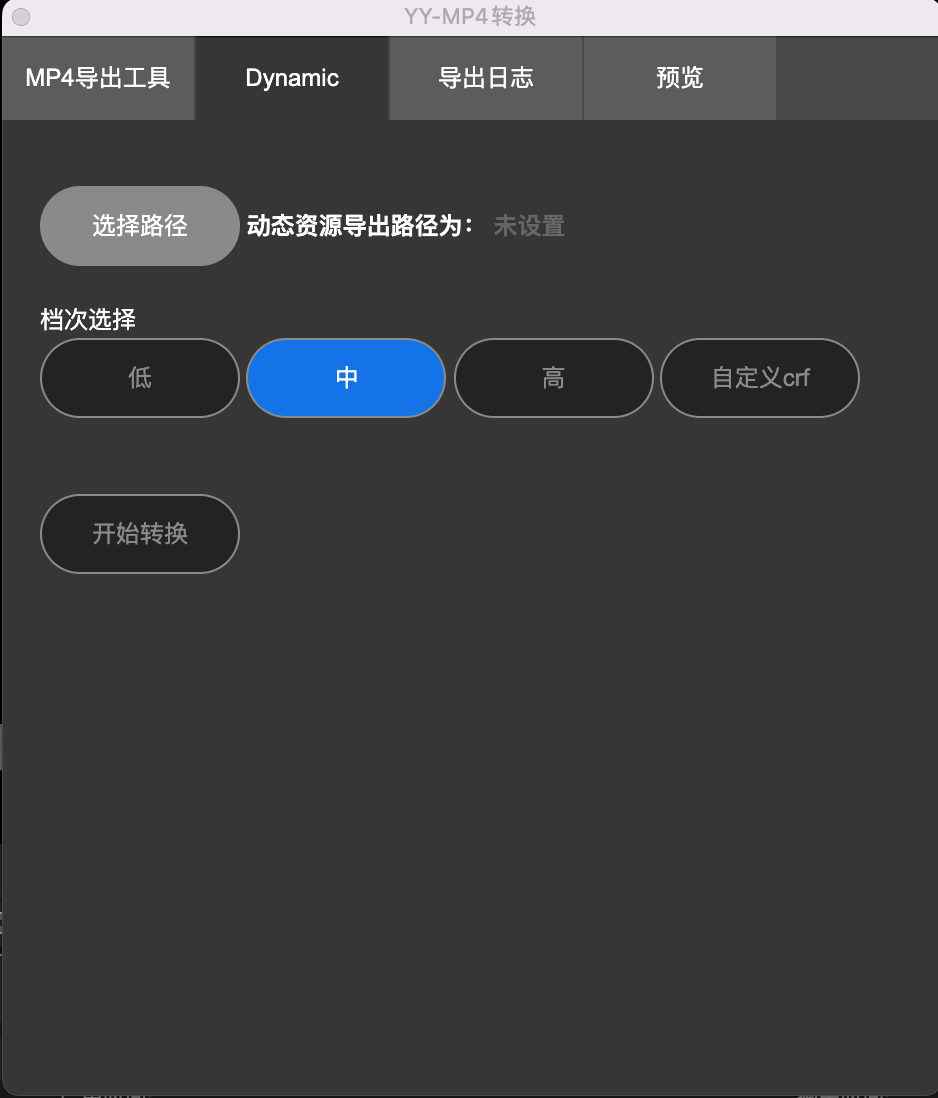
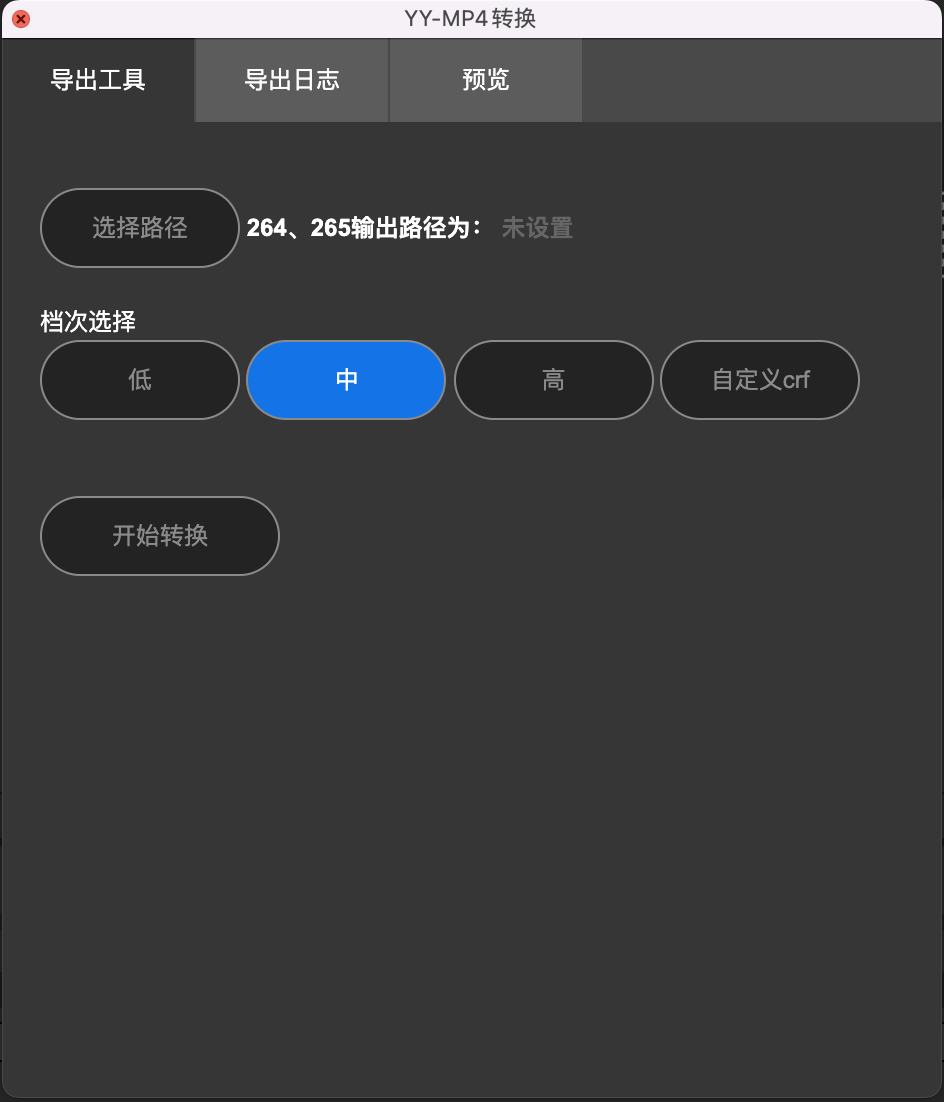
modify 可插入动态元素的MP4解决方案.md

diff --git a/YYEVA-让MP4静态资源也能够动态起来.md b/YYEVA-让MP4静态资源也能够动态起来.md
@@ -47,9 +47,13 @@
  
 
 其中
-* `h264`/`h265` : 主要是为了扩充`Adobe Effect After` 无法直接渲染出 `MP4` 而开发的一个子模块
-* `Dynamic` : 主要是用来解析设计师的图层，导出一个混合`MP4`资源的子模块
-* `导出日志模块`：主要是快速导出解析和转换过程中的日志，方便排查插件的一些功能 `BUG`
+* **导出工具**
+    * 扩充`Adobe Effect After` 渲染MP4资源模块能力
+    * 解析设计师的图层，导出一个`YYEVA-MP4`资源
+* **导出日志**
+    * 快速导出转换过程中的日志，方便排查插件的一些功能 `BUG`
+* **预览**：
+    * 将YYEVA-MP4资源在各端屏幕上渲染，方便设计师调整
 
 下面对插件完成的功能每一个步骤进行详细的论述
 
